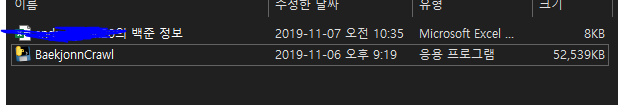
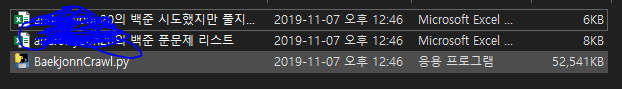
renew

diff --git a/BaekjonnCrawl.py b/BaekjonnCrawl.py
@@ -7,6 +7,30 @@ import numpy as np
 import os
 import sys
 
+def makeDataFrame(li,index):
+    frameData = pd.DataFrame(columns=['Question Number', 'Question Tite', 'Question URL'])
+    loopCount = len(li) / 2
+    varCount = 0
+    questionCount = 1
+    while (varCount < loopCount):
+        df = pd.DataFrame(
+            data={'Question Number': li[varCount], 'Question Tite': li[varCount + 1],
+                  'Question URL': problemURL + str(li[varCount])},
+            index=[questionCount])
+        if varCount == 0:
+            frameData = df
+        else:
+            frameData = pd.concat([frameData, df])
+        loopCount += 1
+        varCount += 2
+        questionCount += 1
+    if index == 0:
+        frameData.to_excel(name + '의 백준 푼문제 리스트' + '.xlsx')
+        print("Complete to make Correct question list excel file ( 1 / 2 )")
+    elif index == 1:
+        frameData.to_excel(name + '의 백준 시도했지만 풀지못한문제 리스트' + '.xlsx')
+        print("Complete to make InCorrect question list excel file ( 2 / 2 )")
+
 userURL = 'https://www.acmicpc.net/user/'
 problemURL = 'https://www.acmicpc.net/problem/'
 
@@ -31,30 +55,28 @@ except URLError as e:
     print(e)
     sys.exit()
 
-li = bs.find('div',{'class' :'panel-body'}).children#.find('span',{'class' : 'problem_number'})
-li = list(li)
-totalProble = []
-for a in range(0,len(li)):
-    li[a] = li[a].string
-    totalProble.append(li[a])
 
 
-totalProble = list(filter(('\n').__ne__, totalProble))
-frameData = pd.DataFrame(columns = ['Question Number','Question Tite','Question URL'])
-loopCount = len(totalProble) / 2
-varCount = 0
-questionCount = 1
-while(varCount < loopCount):
-    df = pd.DataFrame(data = {'Question Number' : totalProble[varCount],'Question Tite' :totalProble[varCount + 1],'Question URL' : problemURL + str(totalProble[varCount])},
-                     index = [questionCount])
-    if varCount == 0:
-        frameData = df
-    else:
-        frameData = pd.concat([frameData,df])
-    loopCount += 1
-    varCount += 2
-    questionCount += 1
+li = bs.findAll('div',{'class' :'panel-body'})[0]#.find('span',{'class' : 'problem_number'})
+li2 = bs.findAll('div',{'class' : 'panel-body'})[1]
 
-frameData.to_excel(name + '의 백준 정보' + '.xlsx')
-print("Complete to make file")
+CorrectIncorrect = []
+#맞은문제에 대해
+li1StringOnly = []
+for a in li.children:
+    li1StringOnly.append(a.string)
+li1StringOnly = list(filter(('\n').__ne__, li1StringOnly))
+CorrectIncorrect.append(li1StringOnly)
+
+#틀린문제에 대해
+li2StringOnly = []
+for b in li2.children:
+    li2StringOnly.append(b.string)
+li2StringOnly = list(filter(('\n').__ne__, li2StringOnly))
+CorrectIncorrect.append(li2StringOnly)
+
+for cot in range(0, len(CorrectIncorrect)):
+    makeDataFrame(CorrectIncorrect[cot],cot)
+
+print('Comlete to make files')
 os.system("pause")
